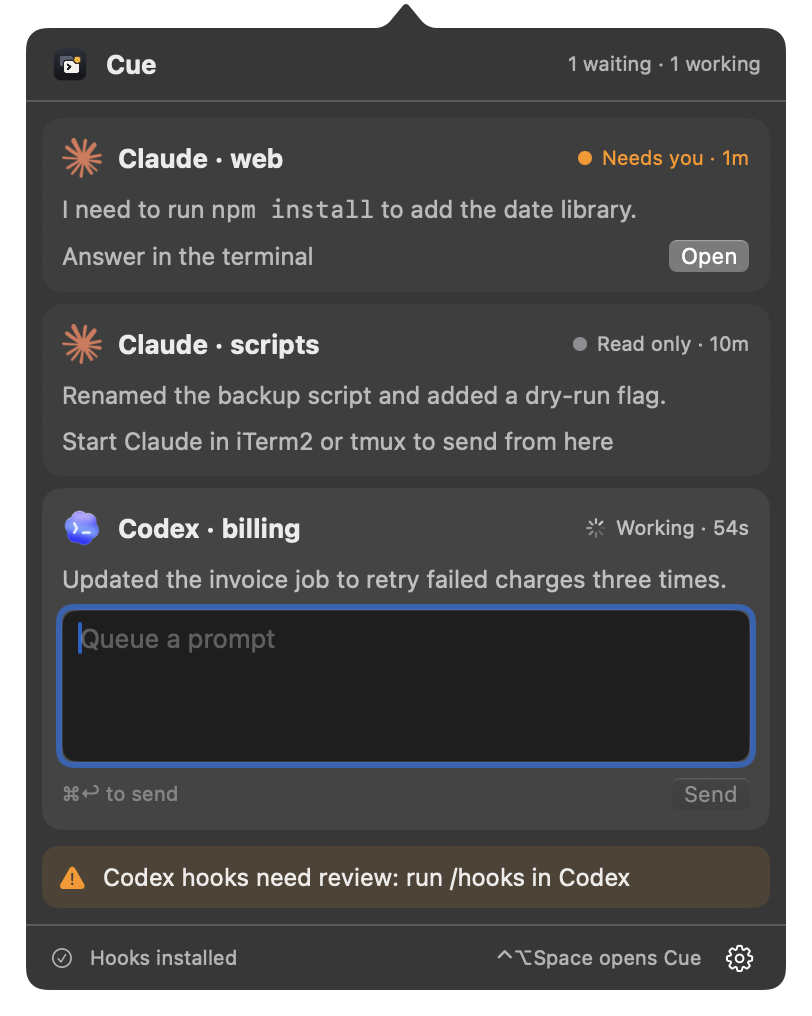
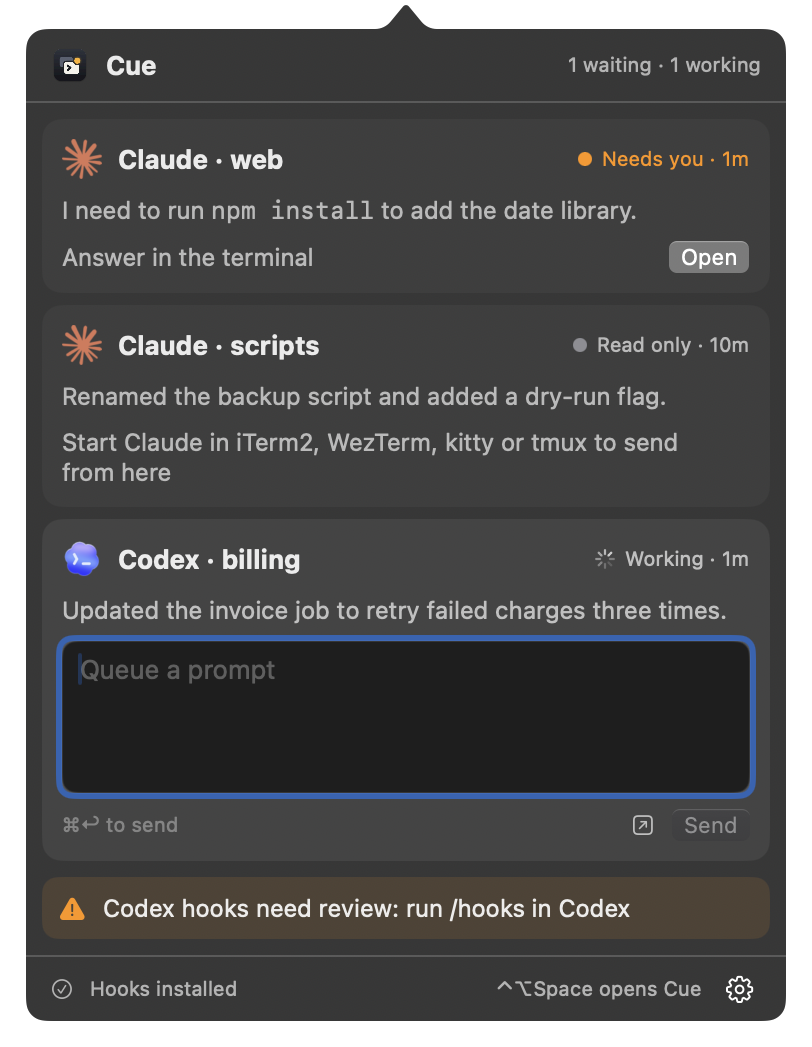
docs: describe WezTerm and kitty, Open for Codex and Ghostty, releases, and draft clearing
The README, user guide, architecture and development docs cover typing
into WezTerm and kitty (and kitty's remote-control setup), Open for Codex
rows and for terminals Cue can't drive, release installs and tagging, the
round-based draft clearing, the popover's height, and the e2e additions.
The popover and row-states screenshots show the Open arrow on Codex rows
and the new read-only text.

diff --git a/docs/architecture.md b/docs/architecture.md
@@ -4,7 +4,7 @@ Cue has no server and no socket. Each agent reports into one folder of JSON file
 
 ```mermaid
 flowchart LR
-    C["Claude Code session<br/>(iTerm2 tab or tmux pane)"] -- "hook event" --> H["cue hook claude / codex"]
+    C["Claude Code session<br/>(iTerm2, WezTerm, kitty or tmux)"] -- "hook event" --> H["cue hook claude / codex"]
     X["Codex session<br/>(via its shared daemon)"] -- "hook event" --> H
     P["Cue plugin<br/>inside Amp"] -- "thread state, heartbeat" --> F
     H -- "atomic write" --> F[("~/.cue/sessions/*.json")]
@@ -32,10 +32,10 @@ One binary does all of it. `main.swift` picks the mode before AppKit loads, whic
 | --- | --- | --- | --- |
 | Reports through | Hooks in `~/.claude/settings.json` | Hooks in `~/.codex/hooks.json` | `~/.config/amp/plugins/cue.ts` |
 | Hooks run in | The session's `claude` process | Codex's shared app-server daemon | (plugin, inside the Amp process) |
-| Delivery | Typed into the iTerm2 tab or tmux pane | `codex queue` | Inbox file, appended by the plugin |
+| Delivery | Typed into the iTerm2 tab, WezTerm pane, kitty window or tmux pane | `codex queue` | Inbox file, appended by the plugin |
 | Confirmation | `last_prompt_at` within 5 s | `codex queue` exit 0: "Sent", or "Queued" during a turn | A receipt from the plugin |
 | Liveness | PID and start time | `SessionEnd`, a newer session in the same folder, or 24 h without change | Heartbeat younger than 30 s; the file goes after an hour |
-| Open | The iTerm2 tab, or the tmux pane and its terminal app | No; the tab is unknown | The iTerm2 tab, or the tmux pane, from the plugin's environment |
+| Open | The iTerm2 tab, WezTerm pane or kitty window, or the tmux pane and its terminal app; elsewhere, the app above the Claude process | The Codex process in the row's folder, found when clicked | The same, from the plugin's environment and the Amp process |
 
 ## Session tracking
 
@@ -86,7 +86,7 @@ stateDiagram-v2
 
 - It follows the thread's state and writes the session file: `running` to working, `awaiting-approval` to needs_you, `idle` to idle, `error` to idle with "Error".
 - On `agent.end`, it stores the last assistant text and stamps `finished_at` (unless the turn was cancelled). While the Cue app isn't posting notifications, it also writes the fallback banner as OSC 9 to the tty of the Amp process above it, looked up on first attach and written without blocking, so a paused terminal can't stall it.
-- It records the Amp process id, `ITERM_SESSION_ID` and `PWD` from its environment, and rewrites a `heartbeat` every 5 seconds. The app hides the row after 30 seconds of silence, refuses a send after 15, and deletes the file after an hour, so it never races a plugin that resumes.
+- It records the Amp process id, `PWD`, and its terminal, read from its environment with the Claude hook's order (`terminal()` in the plugin), and rewrites a `heartbeat` every 5 seconds. The app hides the row after 30 seconds of silence, refuses a send after 15, and deletes the file after an hour, so it never races a plugin that resumes.
 - Every second, it drains its own thread's inbox (below). When it stops, it deletes its session file, provided the file still names its Amp process: a second window on the same thread keeps the row.
 
 ### The session file
@@ -104,20 +104,22 @@ stateDiagram-v2
 | `finished_at` | `Stop`, `StopFailure`, or `agent.end` unless cancelled | "Finished" notifications; Esc and interrupts don't set it |
 | `updated_at` | Each status change | Badge time, recovery checks |
 | `pid`, `pid_start` | Claude: the `claude` process above the hook; Amp: the Amp process | Liveness; the start time guards against PID reuse |
-| `tty` | Claude's controlling terminal | Matches the iTerm2 tab or tmux pane before typing |
-| `iterm_session_id` | `ITERM_SESSION_ID`, dropped when `TMUX` is set | The tab to type into, and Open |
+| `tty` | Claude's controlling terminal | Matches the tab, pane or window before typing |
+| `iterm_session_id` | `ITERM_SESSION_ID`, dropped when another terminal's variables come first | The tab to type into, and Open |
 | `tmux_socket`, `tmux_pane` | Claude or Amp inside tmux: the socket part of `$TMUX`, and `$TMUX_PANE` | The pane to type into (Claude), and Open |
+| `wezterm_socket`, `wezterm_pane` | Claude or Amp in WezTerm: `$WEZTERM_UNIX_SOCKET` and `$WEZTERM_PANE` | The pane to type into, and Open |
+| `kitty_socket`, `kitty_window` | Claude or Amp in kitty: `$KITTY_LISTEN_ON` (a `unix:` address only) and `$KITTY_WINDOW_ID` | The window to type into, and Open; no socket leaves the row read only |
 | `transcript_path` | Hook input | Claude interrupt detection, Codex originator and activity |
 | `turn_id` | Codex `UserPromptSubmit` | Filters Codex subagent events |
 | `heartbeat` | Amp plugin | Amp liveness |
 
-Times are Unix seconds. Claude rows key drafts by iTerm2 tab or tmux pane, so a draft survives `/clear`. Codex and Amp rows key by session id, since several of their threads can share a tab.
+Times are Unix seconds. Claude rows key drafts by tab, pane or window, so a draft survives `/clear`. Codex and Amp rows key by session id, since several of their threads can share a tab.
 
 ### Recovery without a hook event (Claude Code)
 
 Claude Code fires no hook when you press Esc or deny a permission. The app covers both:
 
-- **Interrupt marker.** When a Claude row isn't idle and the transcript's last message entry is `[Request interrupted by user…]`, written after the row's last update, the app sets the row idle. Claude Code appends metadata entries after the marker, so the app reads the last `user` or `assistant` entry, not the last line.
+- **Interrupt marker.** When a Claude row isn't idle and the transcript's last message entry is `[Request interrupted by user…]`, written after the row's last update, the app sets the row idle. Claude Code appends metadata entries after the marker, so the app reads the last `user` or `assistant` entry, not the last line. Claude Code 2.1.285 wrote no transcript at all for sessions in WezTerm or kitty in our tests, so there only the idle-screen check below catches an Esc.
 - **Screen probe.** Esc pressed before Claude writes anything puts the prompt back in the input box and leaves no marker. When the popover opens, the app probes each Claude row that has stayed at `working` for 15 seconds. An idle input box with no spinner sets it idle.
 
 Codex reports Esc through its `Interrupt` hook, and Amp through its thread state, so neither needs recovery.
@@ -126,24 +128,26 @@ Codex reports Esc through its `Interrupt` hook, and Amp through its thread state
 
 ### Claude Code: typing into the terminal
 
-`Delivery.typeIntoClaude` turns a prompt into keystrokes for the session's iTerm2 tab, or for its tmux pane when Claude runs inside tmux. Each step can refuse, and nothing reaches the terminal until the checks pass.
+`Delivery.typeIntoClaude` turns a prompt into keystrokes for the session's terminal: the tmux pane when Claude runs inside tmux, else its WezTerm pane, kitty window or iTerm2 tab. The hook reads which from its environment, innermost terminal first, since a terminal started from another's shell inherits that one's variables (`TMUX`, then `KITTY_WINDOW_ID` with `TERM=xterm-kitty`, then `TERM_PROGRAM=WezTerm` with `WEZTERM_PANE` and `WEZTERM_UNIX_SOCKET`, then `KITTY_WINDOW_ID` alone, then `ITERM_SESSION_ID` with `TERM_PROGRAM=iTerm.app`; kitty sets no `TERM_PROGRAM`, and VS Code's terminal opened from an iTerm2 shell keeps `ITERM_SESSION_ID`). Each step can refuse, and nothing reaches the terminal until the checks pass.
 
 1. **Sanitize.** Strip C0 and C1 control characters (line breaks stay), DEL, zero-width, bidi, tag and variation-selector characters. Turn tabs into spaces, since Tab completes in Claude Code. Add a space after a trailing `\`, since `\` then Return inserts a line break.
 2. **Process checks.** Re-read the session file: it must say `idle`. The PID must run with the recorded start time, as its terminal's foreground process group, not stopped. Its tty must match the recorded one.
-3. **Screen checks.** Read the tab's tty and visible text with AppleScript, or the pane's with `tmux display-message` and `tmux capture-pane`. The tty must match. Claude's input box must be on screen: a rule line of `─`, a line starting with `❯` (or `!` in shell mode) in column 0, more input lines, a rule line. No spinner may sit in the six lines above the box, and vim mode must not be in NORMAL.
-4. **Clear the box.** If the box holds text, send Ctrl+U once per box line. A draft stays recoverable with Ctrl+Y; a grayed-out suggestion vanishes.
+3. **Screen checks.** Read the tab's tty and visible text with AppleScript, the tmux pane's with `tmux display-message` and `tmux capture-pane`, the WezTerm pane's with `wezterm cli list` and `get-text`, or the kitty window's with `kitten @ ls` (its shell's tty) and `get-text`. The tty must match. Claude's input box must be on screen: a rule line of `─`, a line starting with `❯` (or `!` in shell mode) in column 0, more input lines, a rule line. No spinner may sit in the six lines above the box, and vim mode must not be in NORMAL.
+4. **Clear the box.** If the box holds anything but `❯` or an empty box's `Try "…"` suggestion, send 60 Ctrl+K in one write and 60 Ctrl+U in another: each takes one line's text or one line break, after and before the cursor. The box shows only a draft's last 17 lines, so re-run steps 2 and 3 and clear again until the box reads empty, up to 10 rounds; a one-line box that stays the same through the round and a second read 300 ms later is a grayed-out suggestion. A taller box keeps clearing, since it may show the same last lines while text above the cursor goes. Claude Code honors a burst of one key and dropped a 60-byte mix of both. A draft stays recoverable with Ctrl+Y.
 5. **Type.** Send the prompt in 200-character chunks, 150 ms apart, with each line break as ESC + CR (Option+Return). No Return yet. tmux gets the same bytes through `send-keys -H`; a text argument ending in `;` would parse as a tmux command separator.
-6. **Check again.** Repeat steps 2 and 3, then confirm the box's last line is the end of the prompt.
+6. **Check again.** Repeat steps 2 and 3, then confirm the box shows the end of the prompt and nothing else, whitespace aside (a long prompt scrolls, so its start may be out of view), behind a `❯` marker, or `!` for a prompt that starts with `!`.
 7. **Return.** Press Return in a separate call that re-checks the tty.
 8. **Confirm.** The app waits for `last_prompt_at` at or after the send start, with a 5-second deadline that starts once typing ends. Prompts starting with `/` or `!` skip this step.
 
-A refusal before step 5 leaves the terminal untouched. A failure from step 5 on copies the prompt to the clipboard and says so on the row. The column-0 rule matters: dialog options such as ` ❯ 1. Yes` are indented, so a dialog can't pass for the input box.
+A refusal never sends the prompt. One that comes after step 4 cleared a draft says that Ctrl+Y brings it back. A failure from step 5 on copies the prompt to the clipboard and says so on the row. The column-0 rule matters: dialog options such as ` ❯ 1. Yes` are indented, so a dialog can't pass for the input box.
 
-tmux runs the same steps with the tmux CLI, so Ghostty, Kitty, WezTerm and Terminal.app all work, and no macOS permission is involved. Two tmux states refuse before every step: copy mode, where tmux reads keys as its own commands while `capture-pane` still shows Claude's screen, and `synchronize-panes`, where tmux copies keys into every pane of the window. The app uses the `tmux` path from `~/.cue/config.json`, then `/opt/homebrew/bin` and `/usr/local/bin`. Open selects the pane's window and pane, then walks up from the tmux client you used last to the terminal app that hosts it and activates that app. iTerm2 runs shells under its `iTermServer` helper, whose parent is launchd, so meeting that helper means iTerm2.
+tmux runs the same steps with the tmux CLI, so Ghostty and Terminal.app work through it, and no macOS permission is involved. WezTerm's `wezterm cli` needs none either; text goes with `--no-paste`, since a bracketed paste would read as pasted data. kitty's `kitten @` needs `allow_remote_control` and `listen_on` in `kitty.conf`; text goes on stdin, which kitty sends as is, since it reads escapes such as `\r` in an argument. Ghostty's AppleScript can type and focus but can't read the screen or name a tty, so Ghostty stays on tmux. Two tmux states refuse before every step: copy mode, where tmux reads keys as its own commands while `capture-pane` still shows Claude's screen, and `synchronize-panes`, where tmux copies keys into every pane of the window. The app uses the `tmux` path from `~/.cue/config.json`, then `/opt/homebrew/bin` and `/usr/local/bin`. Open selects the pane's window and pane, then walks up from the tmux client you used last to the terminal app that hosts it and activates that app. iTerm2 runs shells under its `iTermServer` helper, whose parent is launchd, so meeting that helper means iTerm2.
 
 ### Codex: `codex queue`
 
 `Codex.queue` runs the absolute `codex` path saved in `~/.cue/config.json` as `codex queue --thread=<id> --message=<prompt>`. The `=` forms keep a prompt that starts with `-` from parsing as a flag. Cue passes the PATH that install.sh captured, because `codex queue` may start Codex's daemon, and the daemon runs your other Codex hooks with that PATH. Exit 0 means Codex accepted the prompt, so the row shows "Sent", or "Queued" during a turn. Cue doesn't also wait for `UserPromptSubmit`: that could only turn a slow start into "Not confirmed" and a duplicate send.
+
+Open has nothing recorded to go on, since the hooks run in the daemon. `Codex.open` lists this user's processes named `codex` that hold a tty as their terminal's foreground group (the daemons hold none) and picks the one started with the session's id (`codex resume <id>`; the kernel's name for it starts with `codex`), else the one whose working folder is the row's, both paths resolved. Two ttys in one folder refuse. It reads that process's launch environment (`KERN_PROCARGS2`) with the same detection as the Claude hook and opens its tmux pane, WezTerm pane or kitty window; for iTerm2 it selects the tab by the process's tty, which an inherited `ITERM_SESSION_ID` can't fool, and otherwise activates the app above the process.
 
 ### Amp: the inbox, at most once
 
@@ -196,7 +200,7 @@ Cue registers itself as a login item through `SMAppService` on its first launch.
 
 ## The menubar app
 
-An `NSStatusItem` with an `NSPopover` holds the UI; SwiftUI's `MenuBarExtra` can't open from code, which the hotkey needs. ⌃⌥Space comes from Carbon's `RegisterEventHotKey`, which needs no Accessibility permission. Each time the popover opens, the app re-sorts the rows and puts the cursor in the first row you can type in. Only the row being edited owns ⌘Return, and one reply expands at a time.
+An `NSStatusItem` with an `NSPopover` holds the UI; SwiftUI's `MenuBarExtra` can't open from code, which the hotkey needs. ⌃⌥Space comes from Carbon's `RegisterEventHotKey`, which needs no Accessibility permission. Each time the popover opens, the app re-sorts the rows and puts the cursor in the first row you can type in. The row list takes its measured height, capped at the screen's visible height less 180 points, and scrolls past that. Only the row being edited owns ⌘Return, and one reply expands at a time.
 
 ## Code structure
 

diff --git a/docs/user-guide.md b/docs/user-guide.md
@@ -20,7 +20,7 @@ The popover lists one row per session: Claude Code sessions, Codex sessions, and
 2. Idle, longest wait first
 3. Working, by project name
 
-Rows keep their places while the popover stays open, so a row never moves under your cursor. Past three sessions, the list scrolls. The cursor starts in the first row you can type in, which is the session that has waited longest.
+Rows keep their places while the popover stays open, so a row never moves under your cursor. The list grows with its rows, and with an opened reply, up to the height of your screen, then scrolls. The cursor starts in the first row you can type in, which is the session that has waited longest.
 
 The header shows a count such as "2 waiting · 1 working". Each session is a rounded tile that shows:
 
@@ -29,8 +29,8 @@ The header shows a count such as "2 waiting · 1 working". Each session is a rou
 - **Last message**: the first two lines of the agent's final reply. Click it to read all of it, with line breaks, bold, code and links, and text you can select and copy. A long reply scrolls; **Show less** folds it again. One reply opens at a time.
 
   <img src="images/reply-expanded.png" width="380" alt="A Claude Code row with its reply expanded: bold text, code, a list, and a Show less link">
-- **Prompt box**: a text area four lines tall; a longer prompt scrolls inside it. A Claude Code row that needs you, or one outside iTerm2 and tmux, shows a line saying so instead, with an **Open** button.
-- **Send**, and the **Open** arrow for Claude Code and Amp rows.
+- **Prompt box**: a text area four lines tall; a longer prompt scrolls inside it. A Claude Code row that needs you, or one in a terminal Cue can't type into, shows a line saying so instead, with an **Open** button.
+- **Send**, and the **Open** arrow on rows whose terminal Cue can find.
 - **A note** under the prompt box when something needs your attention. See [Row messages](#row-messages).
 
 The footer shows whether Cue's hooks are installed, a reminder of ⌃⌥Space, and a gear menu with **Open at Login**, **Play Sounds** and **Quit Cue** (⌘Q). Cue opens at login and plays sounds unless you turn those off there.
@@ -49,7 +49,7 @@ Above the footer, an orange banner appears when Codex won't run Cue's hooks:
 ### Statuses
 
 <p align="center">
-  <img src="images/states.png" width="380" alt="Three rows: a Claude Code session that needs you, with Open; one outside iTerm2 and tmux, read only; a working Codex session with a spinner; and the orange Codex hook warning above the footer">
+  <img src="images/states.png" width="380" alt="Three rows: a Claude Code session that needs you, with Open; one in a terminal Cue can't type into, read only; a working Codex session with a spinner and Open; and the orange Codex hooks warning above the footer">
 </p>
 
 | Status | Claude Code | Codex and Amp |
@@ -57,19 +57,26 @@ Above the footer, an orange banner appears when Codex won't run Cue's hooks:
 | Idle | Send enabled | Send enabled |
 | Working | Draft ahead; Send waits for idle | Send queues the prompt behind the running turn |
 | Needs you | Answer the dialog in the terminal first | Send queues; answer the dialog in the terminal |
-| Read only | The session runs outside iTerm2 and tmux; Send disabled | Doesn't apply: delivery doesn't use the terminal |
+| Read only | The session runs where Cue can't type: Ghostty or Terminal.app without tmux, or kitty without remote control; Send disabled | Doesn't apply: delivery doesn't use the terminal |
 
-Claude Code drafts follow the iTerm2 tab or tmux pane, so a draft survives `/clear`. Codex and Amp drafts follow the session.
+Claude Code drafts follow the tab, pane or window, so a draft survives `/clear`. Codex and Amp drafts follow the session.
 
 ## Sending a prompt
 
 Type in the prompt box. It takes text exactly as typed: no smart quotes or dashes, text replacement or autocorrect, so code and flags arrive intact. **Return** adds a line break; **⌘Return** or the **Send** button sends. The row you're typing in shows the accent focus ring and a "⌘↩ to send" hint, since its Send button is the one ⌘Return triggers. Each agent takes the prompt its own way.
 
-**Claude Code.** Cue types into the session's iTerm2 tab, or into its tmux pane when Claude runs inside tmux. tmux works the same in Ghostty, Kitty, WezTerm, Terminal.app or any other terminal, and needs no macOS permission. Before typing anything, Cue checks that the session is idle, that its Claude process runs in the foreground of that tab or pane, and that Claude's input box sits on screen with no spinner above it. Then it:
+**Claude Code.** Cue types into the session's iTerm2 tab, WezTerm pane or kitty window, or into its tmux pane when Claude runs inside tmux. tmux works the same in Ghostty, Terminal.app or any other terminal. WezTerm and tmux need no setup or macOS permission. kitty needs remote control on, in `kitty.conf`, then a kitty restart:
 
-1. Clears any text already in the input box with Ctrl+U. If that text was a draft of yours, press **Ctrl+Y** in the terminal to get it back.
+```
+allow_remote_control socket-only
+listen_on unix:/tmp/kitty
+```
+
+Ghostty can't be typed into without tmux: it lets other apps type, but not read its screen, and Cue never types blind. Before typing anything, Cue checks that the session is idle, that its Claude process runs in the foreground of that tab or pane, and that Claude's input box sits on screen with no spinner above it. Then it:
+
+1. Clears any text already in the input box, however long, wherever the cursor sits. If that text was a draft of yours, press **Ctrl+Y** in the terminal to get it back.
 2. Types your prompt in small chunks, so Claude Code reads it as typed text rather than a paste.
-3. Runs every check again, confirms the box ends with your prompt, and presses Return.
+3. Runs every check again, confirms the box holds your prompt and nothing else, and presses Return.
 4. Waits up to 5 seconds for the session to report the new prompt, then clears the prompt box.
 
 A long prompt takes a moment: each 200 characters adds 150 ms.
@@ -82,7 +89,9 @@ Prompts that start with `/` (slash commands) or `!` (shell commands) behave as i
 
 ## Opening a session
 
-**Open** brings the session's iTerm2 window and tab to the front. For a session in tmux, Claude Code's or Amp's, it selects the pane in tmux and brings forward the terminal showing that tmux session: in iTerm2, the exact tab; in other terminals, the app with its front window, which may not be the one holding the pane. Use Open to answer a permission dialog. Codex rows have no Open: Codex runs hooks in a shared background process, so Cue can't tell which tab a Codex session lives in.
+**Open** brings the session's iTerm2 window and tab, WezTerm pane or kitty window to the front. In a terminal Cue can't drive, such as Ghostty or Terminal.app without tmux, Open brings that app forward, though not the exact tab. For a session in tmux, Claude Code's or Amp's, it selects the pane in tmux and brings forward the terminal showing that tmux session: in iTerm2, the exact tab; in other terminals, the app with its front window, which may not be the one holding the pane. Use Open to answer a permission dialog.
+
+Codex doesn't record which terminal shows a session, so Open on a Codex row looks for the Codex running in that row's folder and brings its tab or pane forward. With two Codex sessions in one folder, Open says so instead of guessing. A thread you resumed in a Codex started in another folder brings that other Codex forward.
 
 ## Notifications
 
@@ -161,7 +170,7 @@ Cue is ad-hoc signed, so macOS treats each rebuild as a new app and asks for Aut
 
 **⌃⌥Space does nothing.** macOS's "Select next source in Input menu" shortcut also uses ⌃⌥Space, and when it's on, macOS takes the key first. Turn that shortcut off in System Settings > Keyboard > Keyboard Shortcuts > Input Sources.
 
-**A Claude row says Read only.** Cue types only into iTerm2 tabs and tmux panes. Start Claude inside tmux in any other terminal; existing sessions pick up the pane on their next hook event.
+**A Claude row says Read only.** Cue types into iTerm2 tabs, WezTerm panes, kitty windows with remote control on, and tmux panes. In kitty, turn remote control on (see [Sending a prompt](#sending-a-prompt)) and restart kitty; in any other terminal, start Claude inside tmux. Existing sessions pick up the change on their next hook event.
 
 **No notifications from Cue.** Check System Settings > Notifications > Cue. Notifications post for changes Cue sees while it runs; a turn that ended while Cue was quit doesn't notify later.
 
@@ -177,9 +186,8 @@ Cue is ad-hoc signed, so macOS treats each rebuild as a new app and asks for Aut
 
 ## Limitations
 
-- Claude Code delivery works in iTerm2 tabs, and in tmux panes in any terminal. Other terminals without tmux are read only.
+- Claude Code delivery works in iTerm2 tabs, WezTerm panes, kitty windows with remote control on, and tmux panes in any terminal. Ghostty and Terminal.app without tmux are read only.
 - Cue's notifications and sounds need Cue running. Quit, Claude Code and Amp fall back to the terminal banner, which doesn't arrive inside tmux.
-- A multi-line draft taller than Claude's input box may not fully clear before Cue types.
 - Cue reads Claude Code's screen layout, so a Claude Code UI change can make sends refuse until Cue updates. It refuses rather than types blind. See [Development](development.md#when-an-agent-updates).
-- Codex rows have no Open, and a prompt sent to a Codex session whose terminal you closed runs in the background.
+- Open on a Codex row finds the Codex running in that row's folder, so it refuses when two share a folder. A prompt sent to a Codex session whose terminal you closed runs in the background.
 - Cue shows the Amp thread you're looking at in each Amp window; switching threads moves the row.

diff --git a/docs/development.md b/docs/development.md
@@ -45,7 +45,17 @@ swift build -c release            # .build/release/cue
 
 The app reads `Bundle.main.executablePath` to tell whether its Claude hooks are installed, so a build run from `.build/` shows "Hooks missing" in the footer. That's expected.
 
-Each `./install.sh` re-signs the app ad hoc, and macOS asks for Automation permission again on the next Claude Code Send. Changing Cue's Codex hook command string makes Codex ask you to trust the hooks again in `/hooks`.
+`./install.sh --bundle <path.app>` only builds the app bundle at that path. In a folder with a built `Cue.app` and no `Package.swift`, which is what a release zip unpacks to, `./install.sh` installs that app instead of building, after clearing its quarantine flag; on an Intel Mac it refuses, since releases are built for Apple silicon.
+
+**Releasing.** Bump `CFBundleShortVersionString` and `CFBundleVersion` in `Info.plist`, commit, then tag and push the tag:
+
+```sh
+git tag v0.5.0 && git push origin v0.5.0
+```
+
+`.github/workflows/release.yml` checks the tag matches `Info.plist`, runs the unit tests and `tests/check.sh`, builds the bundle, and attaches `cue-0.5.0.zip` (the app, both scripts, the Amp plugin, the docs) to a GitHub Release with generated notes.
+
+Each `./install.sh` from source re-signs the app ad hoc, and macOS asks for Automation permission again on the next Claude Code Send. Changing Cue's Codex hook command string makes Codex ask you to trust the hooks again in `/hooks`.
 
 ## The icon
 
@@ -72,15 +82,15 @@ tests/check.sh    # those, then the built binary's behavior
 `tests/check.sh` runs `swift test`, then, with `CUE_DIR` set to a temp folder:
 
 - every Claude Code and Codex status rule, file modes, malformed input, path-like ids, ten parallel hooks, and a 50 ms average per hook run;
-- the tmux fields a Claude hook records, an odd `$TMUX_PANE` rejected, and the fields cleared when a session leaves tmux;
+- the tmux fields a Claude hook records, an odd `$TMUX_PANE` rejected, and the fields cleared when a session leaves tmux (the WezTerm and kitty rules are unit tests);
 - Codex specifics: `codex exec` skipping, a late `Interrupt` from an earlier turn, and a new session retiring the folder's old idle row;
 - Codex delivery against a fake `codex` that records its arguments and PATH, and the footer's hook check against a fake `codex app-server`: all trusted, one changed, another binary's hooks, and an error reply;
 - the Amp inbox, by running the plugin's real `drainInbox` under Node against `cue send`: delivery, two plugin processes delivering once, withdrawal of an unclaimed prompt, an orphaned prompt, the 60 KB cap, a stale heartbeat, and the file checks;
-- the whole Amp plugin, through `tests/amp-plugin.mjs` and a fake PluginAPI: seeding the open thread, state changes, `agent.end`, a `cue send` round trip, and a thread switch.
+- the whole Amp plugin, through `tests/amp-plugin.mjs` and a fake PluginAPI: the terminal it reads from its environment, seeding the open thread, state changes, `agent.end`, a `cue send` round trip, and a thread switch.
 
 It touches nothing outside the temp folder.
 
-**CI.** `.github/workflows/test.yml` runs on GitHub Actions for every push to `master` and every pull request, on a macOS runner with Node 24: `swift test`, then `swift build -c release`, then `tests/check.sh`. CI sets `HOOK_BUDGET_MS=200`, since shared runners run hooks slower than the 50 ms the script allows by default. `tests/e2e.sh` stays local: it drives real Claude Code, Codex and Amp sessions, which need your accounts and iTerm2.
+**CI.** `.github/workflows/test.yml` runs on GitHub Actions for every push to `master` or `dev` and every pull request, on a macOS runner with Node 24: `swift test`, then `swift build -c release`, then `tests/check.sh`. CI sets `HOOK_BUDGET_MS=200`, since shared runners run hooks slower than the 50 ms the script allows by default. `tests/e2e.sh` stays local: it drives real Claude Code, Codex and Amp sessions, which need your accounts and iTerm2.
 
 ```sh
 tests/e2e.sh
@@ -89,9 +99,10 @@ tests/e2e.sh
 Opens iTerm2 windows and drives real sessions through `cue send`:
 
 - **Claude Code** (two sessions): a one-line prompt, a send over a half-typed draft, a 5-line prompt, a permission dialog, a forced-idle file during that dialog, the Ctrl+G editor, Ctrl+Z, and a closed tab.
-- **Claude Code in tmux**, in a detached session on a private socket: a confirmed send, copy mode and synchronized panes refused, Open with no client and with its client in an iTerm2 tab, a two-line prompt with a line ending in `;` over a half-typed draft, Ctrl+Z, and a killed server.
+- **Claude Code in tmux**, in a detached session on a private socket: a confirmed send, copy mode and synchronized panes refused, Open with no client and with its client in an iTerm2 tab, a two-line prompt with a line ending in `;` over a half-typed draft, a send over a 30-line draft with the cursor moved up into it, Ctrl+Z, and a killed server.
+- **Claude Code in WezTerm and kitty**, when installed, each headless (a `wezterm-mux-server` with its own config, a hidden kitty with remote control on): registration, a send over a 12-line draft, the exact prompt, Open, and a closed pane or window.
 - **Amp**, when the installed plugin matches `plugins/amp/cue.ts`: registration, delivery, a send during a running turn, and the heartbeat stopping after the window closes.
-- **Codex**, when Cue's hooks are in `~/.codex/hooks.json` and trusted: registration, a confirmed send, and a queued send during a running turn.
+- **Codex**, when Cue's hooks are in `~/.codex/hooks.json` and trusted: Codex's hooks review dialog lists other tools' hooks too, so the test asks `cue codex-health` and skips that dialog with Esc, trusting nothing; then registration, Open selecting its tab with another window in front, a confirmed send, and a queued send during a running turn.
 
 It makes a few small model calls and closes its windows when done. Don't touch the keyboard while it runs. The Claude sessions use `--settings .spike/e2e/settings.json`, which points their hooks at `.build/release/cue`.
 
@@ -120,7 +131,7 @@ Cue depends on behavior the agents don't promise. After an upgrade, run `tests/e
 | Claude Code | The input box is a `❯` line in column 0 between two `─` rule lines | `Delivery.box` | Save a screen with `tests/iterm.sh screen <iterm-id>` or `tmux capture-pane -p -t <pane>` (or take `~/.cue/unreadable-screen.txt`, kept when a send found no box), then `CUE_SCREEN_FILE=<file> swift test --filter LiveScreen` |
 | Claude Code | The working spinner reads `✻ Word… (` right above the box | `Delivery.isSpinner` | Capture a tab while Claude works |
 | Claude Code | Input that arrives in a burst becomes `<pasted_content>` | `Delivery.keys`, and the 150 ms gap in each `Terminal.send` | Send a long line, grep the transcript for `pasted_content` |
-| Claude Code | ESC + CR inserts a line break; Ctrl+U clears to line start | `Key`, send step 4 | Send a 3-line prompt over a draft |
+| Claude Code | ESC + CR inserts a line break; Ctrl+K and Ctrl+U each clear one line's text or line break, after and before the cursor, and count every key of a one-key burst | `Key`, send step 4 | The e2e send over a 30-line draft |
 | Claude Code | Esc and denials write `[Request interrupted by user…]` | `Session.interrupted` | Interrupt a turn, read the transcript tail |
 | Claude Code | Hooks run as children of a process named `claude` | `Proc.claude()` | `ps -o pid,ppid,comm` from inside a hook |
 | Codex | Hook events and payload fields match the hooks docs, with `Interrupt` and `turn_id` | `Hook.handle` | Read `~/.cue/sessions/*.json` after a turn |
@@ -133,8 +144,8 @@ Update the captures in `tests/CueCoreTests/ScreenTests.swift` when Claude Code's
 
 ## Adding an agent or a terminal
 
-- **An agent:** add a case to `Agent` in `Session.swift`. The compiler then stops at every `switch` that needs it: the agent's name, its liveness, its delivery channel in `Delivery.send`, and its symbol in `RowView`. Rules shared by several agents are properties on `Agent`, such as `queuesWhileBusy` and `canOpen`.
-- **A terminal for Claude Code:** write a type that conforms to `Terminal` (read the screen, send key chunks, open), and return it from `Session.terminal` when the hook recorded what it needs. The safety checks in `Delivery` apply to it unchanged. Kitty (`kitty @ send-text`) and WezTerm (`wezterm cli send-text`) would fit this way.
+- **An agent:** add a case to `Agent` in `Session.swift`. The compiler then stops at every `switch` that needs it: the agent's name, its liveness, its delivery channel in `Delivery.send`, and its symbol in `RowView`. Rules shared by several agents are properties on `Agent`, such as `queuesWhileBusy` and `playsOwnSounds`.
+- **A terminal for Claude Code:** write a type that conforms to `Terminal` (read the screen and check the tty, send key chunks, open), record what it needs in `Session.setTerminal(from:)` from the shell's environment, and return it from `Session.terminal`. The safety checks in `Delivery` apply to it unchanged. A terminal must let Cue read its screen: Ghostty's AppleScript can't, so Ghostty stays on tmux.
 
 ## Adding a hook event
 

diff --git a/README.md b/README.md
@@ -17,31 +17,34 @@ A macOS menubar app for people who run many coding agents at once. Cue lists you
 | | Claude Code | Codex | Amp |
 | --- | --- | --- | --- |
 | Status from | Hooks | Hooks | Cue's Amp plugin |
-| Prompt delivery | Typed into the iTerm2 tab or tmux pane, behind safety checks | `codex queue` | The plugin appends it to the thread |
+| Prompt delivery | Typed into the iTerm2 tab, WezTerm pane, kitty window or tmux pane, behind safety checks | `codex queue` | The plugin appends it to the thread |
 | Send while the agent works | No | Yes, queued | Yes, queued |
-| Terminals | iTerm2, or any terminal through tmux | Any | Any |
-| Open button | Yes | No | Yes, in iTerm2 or tmux |
+| Terminals | iTerm2, WezTerm, kitty, or any terminal through tmux | Any | Any |
+| Open button | Yes | Yes, for the one Codex running in that folder | Yes |
 
 ## Requirements
 
-- macOS 14 or later, and iTerm2 or tmux for Claude Code
-- `jq`, and Swift 6 (the Xcode Command Line Tools are enough)
+- macOS 14 or later, and iTerm2, WezTerm, kitty (with remote control on) or tmux for Claude Code
+- `jq` (macOS 15 includes it), and Swift 6 to build from source (the Xcode Command Line Tools are enough)
 - Any of: Claude Code 2.1.285+, Codex CLI 0.160+, Amp CLI
 
 ## Install
+
+Download `cue-<version>.zip` from [Releases](https://github.com/haikelz/cue/releases), unzip it, and run `./install.sh` in that folder. The release app is built for Apple silicon. To build from source instead, run the same script in a clone:
 
 ```sh
 ./install.sh
 ```
 
-The script builds `~/Applications/Cue.app`, wires in each agent you have installed (hooks for Claude Code and Codex, a plugin for Amp), and launches the app. It backs up every settings file it touches, keeping the last three backups, and it migrates a Claude Relay install.
+The script installs `~/Applications/Cue.app`, wires in each agent you have installed (hooks for Claude Code and Codex, a plugin for Amp), and launches the app. It backs up every settings file it touches, keeping the last three backups, and it migrates a Claude Relay install.
 
 Then:
 
 - **Codex:** open `codex`, run `/hooks`, and trust Cue's hooks. Codex skips hooks you haven't trusted.
 - **Amp:** in open Amp windows, run `plugins: reload` from the command palette, or restart Amp.
 - **First start:** macOS asks whether Cue may send notifications. Click Allow. Cue also adds itself to your login items; turn that off in its gear menu.
-- **First Send to Claude Code in iTerm2:** macOS asks whether Cue may control iTerm2. Click Allow. tmux needs no permission.
+- **First Send to Claude Code in iTerm2:** macOS asks whether Cue may control iTerm2. Click Allow. tmux and WezTerm need no permission.
+- **kitty:** add `allow_remote_control socket-only` and `listen_on unix:/tmp/kitty` to `kitty.conf`, then restart kitty.
 
 ## Documentation
 
